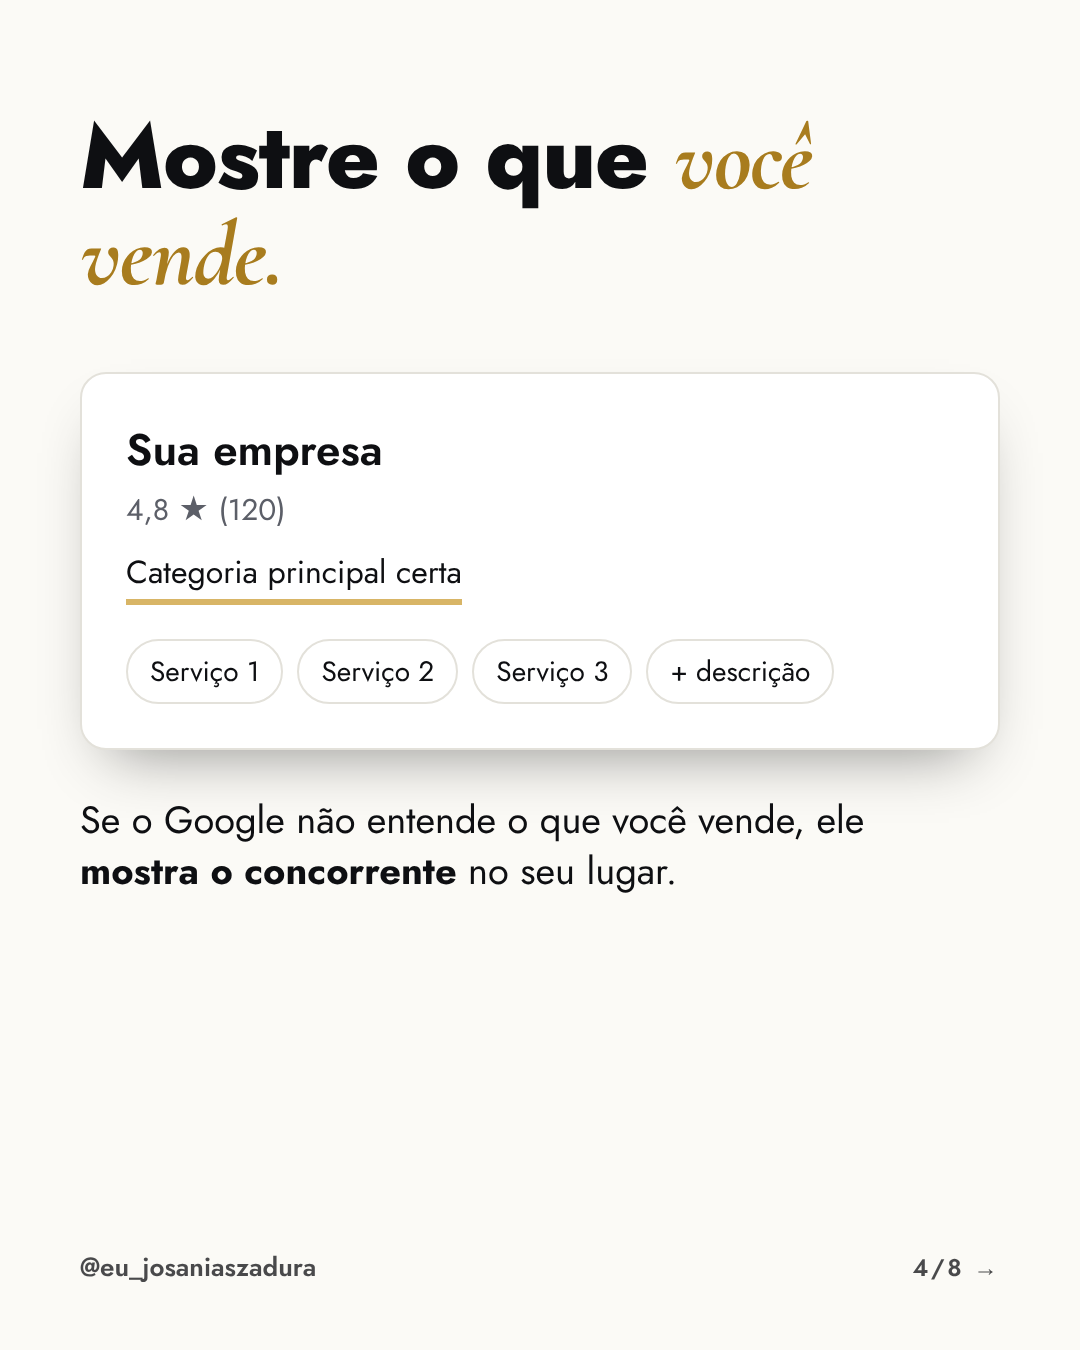
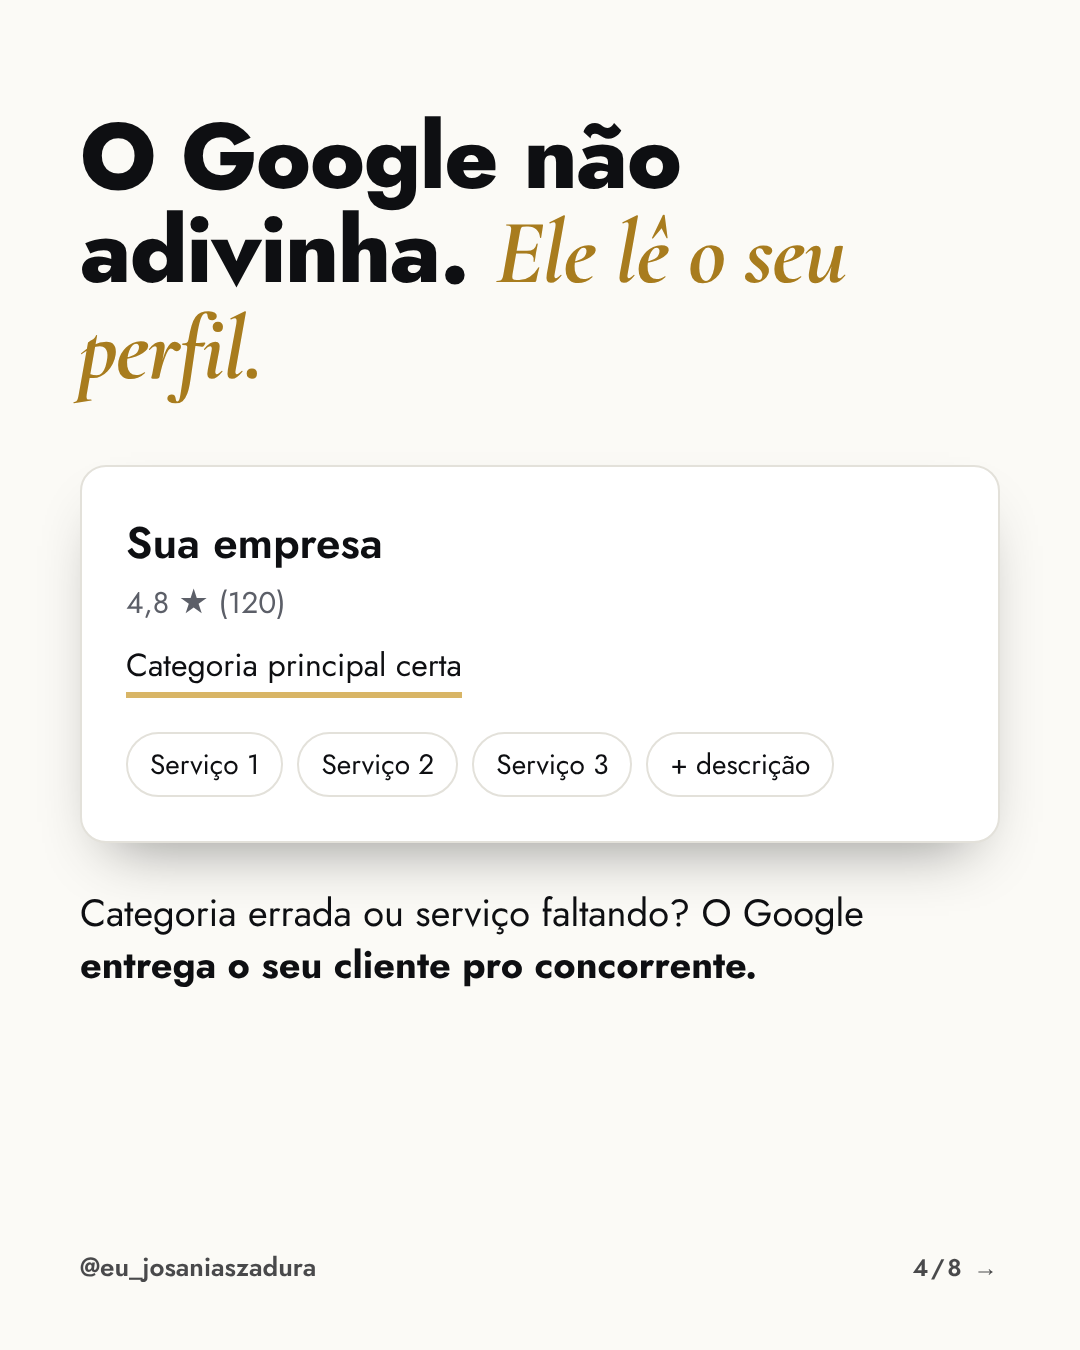
Carrossel RAIO-X v2: copy própria (sem frases de referência) e legenda nova
Claude-Session: https://claude.ai/code/session_01GSPDeNJt9dBjJ4huVqgAZy

Changed region(s): [[0.0611, 0.0933, 0.9167, 0.7467], [0.6417, 0.1556, 0.7944, 0.2178]]

diff --git a/anuncios/carrossel-raiox/fonte/gen.py b/anuncios/carrossel-raiox/fonte/gen.py
@@ -31,13 +31,13 @@ S[1]=f'''<div class="c night" style="padding:0">
 <div style="position:absolute;inset:0;background:linear-gradient(0deg,#0B0C0F 36%,rgba(11,12,15,0) 62%),linear-gradient(90deg,#0B0C0F 8%,rgba(11,12,15,0) 45%)"></div>
 <div style="position:absolute;left:80px;right:80px;top:700px">
 <div style="width:120px;height:6px;background:#D8B566;margin-bottom:34px"></div>
-<h1 style="font-size:96px">Quer vender mais com o <span class="it" style="font-size:1.08em">Google Meu Negócio?</span></h1>
-<p class="cap" style="color:#C9CCD4;font-size:36px">No último card, como pedir o <b style="color:#fff">Raio-X grátis</b> do seu perfil.</p>
+<h1 style="font-size:92px">Tem cliente procurando você no Google. <span class="it" style="font-size:1.08em">Ele está te achando?</span></h1>
+<p class="cap" style="color:#C9CCD4;font-size:36px">Arrasta até o fim e peça o <b style="color:#fff">Raio-X grátis</b> do seu perfil.</p>
 </div>
 <div class="foot" style="left:80px;right:80px"><span>{HANDLE}</span><span class="pg">arrasta →</span></div>
 </div>'''
 S[2]=f'''<div class="c light">
-<h1>Seu próximo cliente pode estar pesquisando <span class="u">agora.</span></h1>
+<h1>Neste minuto, alguém digitou <span class="u">o que você vende.</span></h1>
 <div class="card" style="margin-top:70px;overflow:hidden">
 <div style="display:flex;gap:16px;align-items:center;padding:28px 34px;border-bottom:2px solid #E3E1DA;font-size:34px;color:#5C5F68">{SEARCH}seu serviço perto de mim</div>
 <div style="height:300px;background:repeating-linear-gradient(0deg,#EEF0EA 0 2px,transparent 2px 60px),repeating-linear-gradient(90deg,#EEF0EA 0 2px,transparent 2px 80px),#F7F8F4;position:relative">
@@ -45,20 +45,20 @@ S[2]=f'''<div class="c light">
 <div style="position:absolute;left:640px;top:60px">{PIN.replace('class="pin"','class="pin" style="color:#C0392B"')}</div><div style="position:absolute;left:780px;top:190px">{PIN.replace('class="pin"','class="pin" style="color:#C0392B"')}</div><div style="position:absolute;left:300px;top:200px">{PIN.replace('class="pin"','class="pin" style="color:#C0392B"')}</div>
 </div>
 </div>
-<p class="cap">Ele procura o seu serviço e a sua cidade. O Google mostra <b>todas as opções na mesma tela.</b></p>
+<p class="cap">O Google abriu o mapa com as opções. <b>A sua empresa estava lá?</b></p>
 {foot(2)}</div>'''
 S[3]=f'''<div class="c night">
-<h1>Ele compara <span class="it">antes de escolher.</span></h1>
+<h1>Ninguém escolhe <span class="it">no escuro.</span></h1>
 <div style="display:grid;grid-template-columns:1fr 1fr;gap:26px;margin-top:70px">
 <div class="card" style="padding:34px"><div style="font-size:24px;letter-spacing:.12em;font-weight:700;color:#1E8E5A">1º NO MAPS</div><div style="font-size:40px;font-weight:700;margin-top:10px">Concorrente</div><div style="font-size:30px;color:#5C5F68;margin-top:6px">4,6 ★ (205)</div>
 <div style="font-size:30px;margin-top:26px;line-height:1.7"><span class="ok">✓</span> Fotos recentes<br><span class="ok">✓</span> Site e WhatsApp<br><span class="ok">✓</span> Avaliações respondidas</div></div>
 <div class="card" style="padding:34px;background:#FDECEA"><div style="font-size:24px;letter-spacing:.12em;font-weight:700;color:#C0392B">16º NO MAPS</div><div style="font-size:40px;font-weight:700;margin-top:10px">Loja do caso</div><div style="font-size:30px;color:#5C5F68;margin-top:6px">4,7 ★ (35)</div>
 <div style="font-size:30px;margin-top:26px;line-height:1.7"><span class="red">✕</span> Fotos antigas<br><span class="red">✕</span> Sem site e WhatsApp<br><span class="red">✕</span> 0 respostas</div></div>
 </div>
-<p class="cap" style="color:#C9CCD4">Caso real: a <b style="color:#fff">melhor nota da região</b> escondida em 16º. Qual dos dois você chamaria?</p>
+<p class="cap" style="color:#C9CCD4">Caso real: a <b style="color:#fff">melhor nota da região</b> perdendo cliente em 16º. Nota boa sozinha não vende.</p>
 {foot(3)}</div>'''
 S[4]=f'''<div class="c light">
-<h1>Mostre o que <span class="it">você vende.</span></h1>
+<h1>O Google não adivinha. <span class="it">Ele lê o seu perfil.</span></h1>
 <div class="card" style="margin-top:70px;padding:44px">
 <div style="font-size:44px;font-weight:600">Sua empresa</div>
 <div style="font-size:30px;color:#5C5F68;margin-top:6px">4,8 ★ (120)</div>
@@ -66,28 +66,28 @@ S[4]=f'''<div class="c light">
 <div style="display:flex;flex-wrap:wrap;gap:14px;margin-top:34px">
 <span style="font-size:28px;border:2px solid #E3E1DA;border-radius:999px;padding:10px 22px">Serviço 1</span><span style="font-size:28px;border:2px solid #E3E1DA;border-radius:999px;padding:10px 22px">Serviço 2</span><span style="font-size:28px;border:2px solid #E3E1DA;border-radius:999px;padding:10px 22px">Serviço 3</span><span style="font-size:28px;border:2px solid #E3E1DA;border-radius:999px;padding:10px 22px">+ descrição</span>
 </div></div>
-<p class="cap">Se o Google não entende o que você vende, ele <b>mostra o concorrente</b> no seu lugar.</p>
+<p class="cap">Categoria errada ou serviço faltando? O Google <b>entrega o seu cliente pro concorrente.</b></p>
 {foot(4)}</div>'''
 S[5]=f'''<div class="c gold">
-<h1>Facilite o <span class="it">contato.</span></h1>
+<h1>Cliente pronto pra comprar <span class="it">não espera.</span></h1>
 <div class="card" style="margin-top:70px;padding:20px 44px;font-size:34px">
 <div style="display:flex;gap:24px;align-items:center;padding:24px 0;border-bottom:2px solid #E3E1DA">{PIN}Endereço certo e fácil de achar</div>
 <div style="display:flex;gap:24px;align-items:center;padding:24px 0;border-bottom:2px solid #E3E1DA"><span style="font-size:38px">🕘</span><span class="ok">Aberto agora</span>&nbsp;· horário atualizado</div>
 <div style="display:flex;gap:24px;align-items:center;padding:24px 0;border-bottom:2px solid #E3E1DA"><span style="font-size:38px">💬</span>Botão de WhatsApp</div>
 <div style="display:flex;gap:24px;align-items:center;padding:24px 0"><span style="font-size:38px">🌐</span>Site ou página do serviço</div>
 </div>
-<p class="cap">Quem já quer comprar precisa chegar até você <b>em um toque.</b></p>
+<p class="cap">Horário errado ou sem WhatsApp? <b>Ele liga pro vizinho.</b></p>
 {foot(5)}</div>'''
 S[6]=f'''<div class="c light">
-<h1>Fotos e avaliações <span class="it">ajudam a vender.</span></h1>
+<h1>Perfil parado <span class="it">parece empresa fechada.</span></h1>
 <div class="card" style="margin-top:64px;padding:40px 44px">
 <div style="display:flex;align-items:baseline;gap:18px"><span style="font-size:96px;font-weight:800">4,9</span><span style="font-size:40px;color:#E8A317">★★★★★</span></div>
 <div style="margin-top:22px;border-left:6px solid #D8B566;padding:6px 0 6px 24px;font-size:28px;line-height:1.4;color:#3c3f47"><b style="color:#0E0F12">Resposta do proprietário</b><br>Obrigada pela visita, Ana! Que bom que gostou do atendimento aqui no bairro. Volte sempre!</div>
 </div>
-<p class="cap">Fotos reais toda semana. Toda avaliação respondida. <b>Do jeito certo:</b> sem comprar avaliação.</p>
+<p class="cap">Foto de 2 anos atrás e avaliação sem resposta afastam cliente. <b>Do jeito certo:</b> movimento real, nada comprado.</p>
 {foot(6)}</div>'''
 S[7]=f'''<div class="c night">
-<h1>Veja o que melhorar <span class="it">no seu.</span></h1>
+<h1>Quanto o seu Google <span class="it">vale hoje?</span></h1>
 <div style="display:grid;grid-template-columns:420px 1fr;gap:44px;margin-top:66px;align-items:center">
 <img src="{laudo}" style="width:420px;border-radius:14px;box-shadow:0 30px 60px -20px rgba(0,0,0,.9);border:2px solid #2A2D35">
 <div style="font-size:33px;line-height:1.45;color:#C9CCD4">
@@ -97,13 +97,13 @@ S[7]=f'''<div class="c night">
 <p>{PIN.replace('class="pin"','class="pin" style="width:22px;height:30px;vertical-align:-4px"')} quem está na sua frente</p>
 <p>{PIN.replace('class="pin"','class="pin" style="width:22px;height:30px;vertical-align:-4px"')} o que fazer primeiro</p>
 </div></div>
-<p class="cap" style="color:#C9CCD4">Feito por quem cuida de Google Meu Negócio todo dia. <b style="color:#fff">Grátis.</b></p>
+<p class="cap" style="color:#C9CCD4">Análise feita a mão pelo Método Pin Dourado. <b style="color:#fff">Grátis.</b></p>
 {foot(7)}</div>'''
 S[8]=f'''<div class="c gold">
-<h1 style="font-size:80px">Quer o Raio-X do Google Meu Negócio da sua empresa <span class="it">grátis?</span></h1>
+<h1 style="font-size:84px">Descubra o que está escondendo a sua empresa <span class="it">no Google.</span></h1>
 <div style="font-size:46px;font-weight:600;margin-top:90px">Comente</div>
 <div style="display:inline-block;margin-top:18px;background:#0B0C0F;color:#D8B566;font-size:170px;font-weight:800;line-height:1;padding:30px 50px;border-radius:24px;transform:rotate(-2deg)">RAIO-X</div>
-<div style="font-size:46px;font-weight:600;margin-top:44px">que eu te chamo no direct.</div>
+<div style="font-size:46px;font-weight:600;margin-top:44px">e receba o seu Laudo no direct.</div>
 <img src="{logo}" style="position:absolute;right:80px;bottom:56px;height:70px;background:#fff;border-radius:14px;padding:10px 18px">
 <div class="foot" style="right:auto"><span>{HANDLE}</span></div>
 </div>'''

diff --git a/anuncios/carrossel-raiox/LEGENDA.md b/anuncios/carrossel-raiox/LEGENDA.md
@@ -1,16 +1,24 @@
 # Carrossel "Comente RAIO-X"
 
 ## Legenda
-Seu próximo cliente pode estar procurando o que você vende no Google agora. Quando ele encontra a sua empresa, o seu perfil ajuda a fechar a venda ou manda ele pro concorrente?
+Tem gente na sua cidade procurando exatamente o que você vende. Agora. 📍
+A pergunta é: o Google está mostrando a sua empresa ou o seu concorrente?
 
-Eu faço o Raio-X do Google Meu Negócio da sua empresa: você recebe o Laudo com a nota do seu perfil de 0 a 100, quem está na sua frente no Maps e o que fazer primeiro. Grátis.
+Nota boa sozinha não segura cliente. Perfil parado, categoria errada e avaliação sem resposta fazem o cliente escolher outro, mesmo você sendo melhor.
 
-Comente RAIO-X que eu te chamo no direct. 📍
+Eu faço o Raio-X do Google Meu Negócio da sua empresa e te entrego o Laudo com:
+✔ a nota do seu perfil de 0 a 100
+✔ quem está na sua frente no Maps
+✔ o que corrigir primeiro
+
+Grátis, do jeito certo e sem você pagar por anúncio.
+
+Comente RAIO-X que eu te mando o Laudo no direct.
 
 #googlemeunegocio #googlemaps #marketinglocal #fozdoiguacu #pequenasempresas
 
 ## Mensagem automática no direct (ManyChat ou similar)
-Oi! Aqui é a Josânia, da AdFlow 😊 Que bom que você quer o Raio-X do seu Google Meu Negócio.
+Oi! Aqui é a Josânia, da AdFlow 😊 Bora fazer o Raio-X do seu Google Meu Negócio.
 Me manda aqui:
 1. O nome da sua empresa e a cidade
 2. O link do seu perfil no Google Maps (no Maps: Compartilhar → Copiar link)
